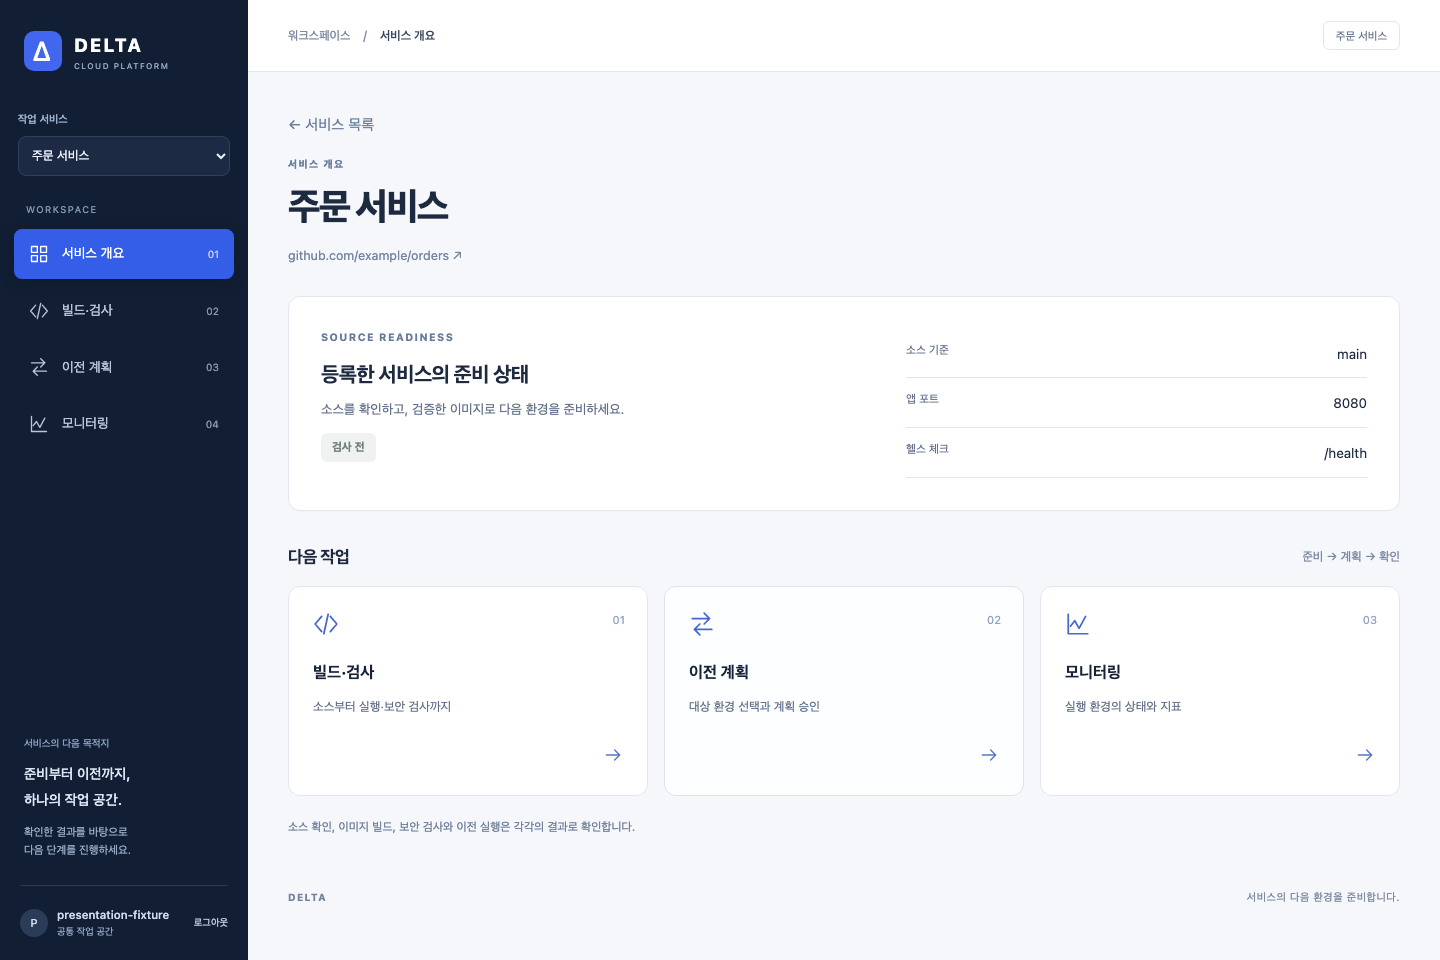
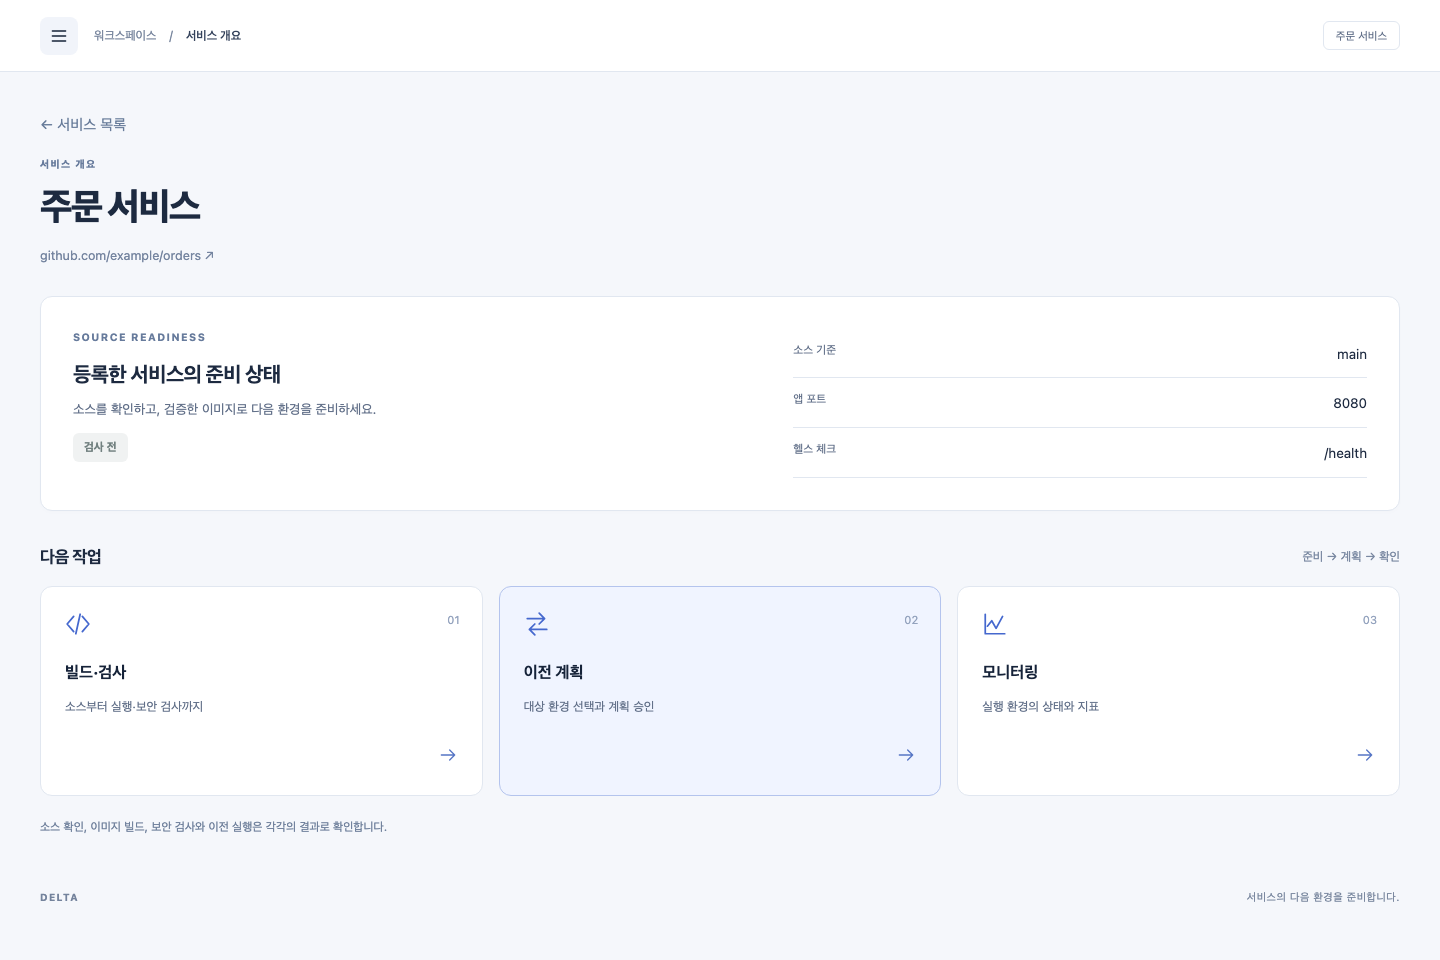
fix(platform): use navigation drawer on desktop and mobile

diff --git a/platform/web/src/presentation.css b/platform/web/src/presentation.css
@@ -70,19 +70,11 @@ h2 {
 .app-shell {
   min-height: 100dvh;
 }
-.desktop-sidebar,
 .drawer-content {
   display: flex;
   flex-direction: column;
   background: #111e33;
   color: #d2dbee;
-}
-.desktop-sidebar {
-  position: fixed;
-  inset: 0 auto 0 0;
-  width: 248px;
-  z-index: 20;
-  overflow-y: auto;
 }
 .shell-brand {
   display: flex;
@@ -242,7 +234,6 @@ h2 {
   flex-shrink: 0;
 }
 .shell-body {
-  margin-left: 248px;
   min-width: 0;
 }
 .shell-topbar {
@@ -289,7 +280,7 @@ h2 {
 .skip-link {
   position: fixed;
   top: -100px;
-  left: 270px;
+  left: 16px;
   padding: 10px 18px;
   background: white;
   border: 2px solid var(--accent);
@@ -299,7 +290,11 @@ h2 {
   top: 12px;
 }
 .drawer-trigger {
-  display: none;
+  display: grid;
+  place-items: center;
+  padding: 9px;
+  border: 0;
+  background: #f1f4fa;
 }
 .shell-footer {
   display: flex;
@@ -661,7 +656,7 @@ h2 {
   background: #e7eeff;
   color: #3d5eda;
 }
-.mobile-drawer {
+.workspace-drawer {
   padding: 0;
   border: 0;
   margin: 0;
@@ -672,7 +667,18 @@ h2 {
   background: #111e33;
   color: white;
 }
-.mobile-drawer::backdrop {
+.workspace-drawer[open] {
+  animation: drawer-enter 180ms ease-out;
+}
+@keyframes drawer-enter {
+  from {
+    transform: translateX(-100%);
+  }
+  to {
+    transform: translateX(0);
+  }
+}
+.workspace-drawer::backdrop {
   background: #0c193d80;
   backdrop-filter: blur(2px);
 }
@@ -708,24 +714,6 @@ h2 {
   }
   .next-action {
     padding: 20px;
-  }
-}
-@media (max-width: 1000px) {
-  .desktop-sidebar {
-    display: none;
-  }
-  .shell-body {
-    margin-left: 0;
-  }
-  .drawer-trigger {
-    display: grid;
-    place-items: center;
-    padding: 9px;
-    border: 0;
-    background: #f1f4fa;
-  }
-  .skip-link {
-    left: 16px;
   }
 }
 @media (max-width: 700px) {
@@ -842,6 +830,7 @@ h2 {
   *::after {
     scroll-behavior: auto !important;
     transition: none !important;
+    animation: none !important;
   }
 }
 

diff --git a/platform/web/src/AppShell.tsx b/platform/web/src/AppShell.tsx
@@ -114,14 +114,6 @@ export function AppShell({
     window.scrollTo({ top: 0 });
   }, [route.view, route.serviceId]);
   useEffect(() => {
-    const wide = window.matchMedia("(min-width: 1001px)");
-    const resized = () => {
-      if (wide.matches) dialog.current?.close();
-    };
-    wide.addEventListener("change", resized);
-    return () => wide.removeEventListener("change", resized);
-  }, []);
-  useEffect(() => {
     if (!open) return;
     const overflow = document.body.style.overflow;
     document.body.style.overflow = "hidden";
@@ -208,10 +200,10 @@ export function AppShell({
       >
         본문으로 이동
       </a>
-      <aside className="desktop-sidebar">{sidebar()}</aside>
       <dialog
+        id="workspace-drawer"
         ref={dialog}
-        className="mobile-drawer"
+        className="workspace-drawer"
         aria-label="작업 공간 메뉴"
         onClose={() => setOpen(false)}
         onKeyDown={(event) => {
@@ -249,6 +241,8 @@ export function AppShell({
           <button
             className="drawer-trigger"
             aria-label="메뉴 열기"
+            aria-controls="workspace-drawer"
+            aria-haspopup="dialog"
             aria-expanded={open}
             onClick={() => {
               dialog.current?.showModal();

diff --git a/platform/web/tests/platform.spec.ts b/platform/web/tests/platform.spec.ts
@@ -92,6 +92,7 @@ async function register(page: Page, name: string, dockerfile = "Dockerfile") {
     .getByRole("button", { name: "등록하고 상세 보기", exact: true })
     .click();
   await expect(page.getByRole("heading", { name, exact: true })).toBeVisible();
+  await page.getByRole("button", { name: "메뉴 열기" }).click();
   await page.getByRole("button", { name: "빌드·검사", exact: true }).click();
 }
 
@@ -124,6 +125,7 @@ test("로그인 → 등록 → 실제 DB·Worker 검사 → 새로고침 → 로
   await expect(
     page.getByText("소스 확인 완료", { exact: true }).first(),
   ).toBeVisible();
+  await page.getByRole("button", { name: "메뉴 열기" }).click();
   await page.getByRole("button", { name: "로그아웃", exact: true }).click();
   await expect(
     page.getByRole("heading", { name: "워크스페이스 로그인" }),

diff --git a/docs/ai-dlc/platform-presentation.md b/docs/ai-dlc/platform-presentation.md
@@ -40,6 +40,8 @@
 
 ![선택한 서비스와 다음 작업](../images/platform-presentation/service-desktop.png)
 
+![데스크톱 서랍](../images/platform-presentation/drawer-desktop.png)
+
 ![모바일 서랍](../images/platform-presentation/drawer-mobile.png)
 
 ## 자체 검토
@@ -48,4 +50,16 @@
 
 ## 운영과 복구
 
-이번 변경은 웹 번들이다. PR 병합과 실제 배포는 아직 하지 않았다. 기존 플랫폼 릴리스 절차로 배포하고 문제가 있으면 이전 웹 번들로 복귀한다. DB 스키마·인프라·로그인 정책 변경은 없다.
+최초 화면 개편 PR #31은 병합됐다. 아래 웹 서랍 후속 변경은 별도 PR로 게시하며 아직 병합·배포하지 않았다. 이번 변경은 웹 번들이다. 기존 플랫폼 릴리스 절차로 배포하고 문제가 있으면 이전 웹 번들로 복귀한다. DB 스키마·인프라·로그인 정책 변경은 없다.
+
+
+## 웹 서랍 후속 수정 (2026-11-04)
+
+- 사용자 `I need drawer for the web platform.` 요청으로 데스크톱 고정 사이드바를 모든 화면 크기에서 메뉴 버튼으로 여는 왼쪽 서랍으로 변경한다. 기존 화면 개편 승인 범위의 수정이다.
+- 설계·구현: 기본은 닫힌 상태이고 본문은 전체 너비를 사용한다. 단일 native dialog로 메뉴를 제공하며, 메뉴 버튼에 펼침 상태와 연결 대상을 표시한다. 열릴 때 짧은 슬라이드 효과를 적용하고 동작 줄이기 설정에서는 애니메이션을 생략한다.
+- 닫기 버튼·Escape·배경 클릭·메뉴 선택을 지원한다. 열린 동안 배경 조작과 스크롤을 막고 키보드 포커스를 유지한다. 화면 크기를 바꿔도 열린 메뉴를 유지한다. 로그인과 API 계약은 유지한다.
+- 테스트: 데스크톱 1440×960·모바일 390×844에서 기본 닫힘, 전체 너비, 열림 상태, 포커스 유지·복귀, 스크롤 잠금·복구, 닫기 방법, 화면 크기 변경, 메뉴 탐색·로그아웃을 검증한다. 기존 탐색 테스트는 메뉴를 먼저 여는 동작으로 갱신했다.
+- `npm run build`: TypeScript/Vite 통과. `npm run format:check`: 통과.
+- `node node_modules/@playwright/test/cli.js test --config=playwright.fixture.config.ts --output=../../.validation/web-drawer-final`: **8 passed**. 최초 실행의 메뉴 활성 상태 확인 테스트는 닫힌 서랍을 조회해 실패했으며, 메뉴를 열고 확인하도록 수정한 뒤 재검증했다.
+- 위 미리보기는 후속 구현의 API fixture 화면이다. 애니메이션을 완료한 상태로 캡처해 데스크톱·모바일을 시각 확인했다. 실제 운영 배포를 검증한 이미지는 아니다.
+- `npm run test:e2e`: 실제 로컬 시험 DB·API·Worker와 브라우저 fixture를 포함해 **21 passed (2.1m)**. 클라우드 배포 검증과 구분한다. 최종 `git diff --check`도 통과했다.

diff --git a/docs/README.md b/docs/README.md
@@ -3,7 +3,7 @@
 ## 현재 상태
 
 - 기준일: 2026-11-04 (Asia/Seoul)
-- 플랫폼 발표 화면(2026-11-04): 왼쪽 사이드바·모바일 서랍과 서비스 개요/빌드·검사/이전 계획/모니터링 화면을 구현했다. 로그인은 유지하고 화면 틀과 분리했다. 로컬 검증과 화면 캡처를 확인했으며 PR 검토 전이다. [설계·검증·미리보기](ai-dlc/platform-presentation.md)
+- 플랫폼 발표 화면(2026-11-04): 서비스 개요/빌드·검사/이전 계획/모니터링 화면 개편 PR #31은 병합됐다. 후속 요청으로 데스크톱·모바일 모두 메뉴 버튼으로 여는 왼쪽 서랍을 구현하고 로컬 검증·화면 캡처를 확인했다. 로그인은 유지하며 후속 변경은 아직 병합·배포하지 않았다. [설계·검증·미리보기](ai-dlc/platform-presentation.md)
 - 플랫폼 중앙 로그(2026-11-04): [PR #34](https://github.com/2026-sbh-delta/delta-network-gateway/pull/34)를 전체 CI 통과 후 main에 병합했다. AWS CloudWatch Logs Destination/Kinesis/Lambda와 GCP Cloud Logging Sink/PubSub/WIF 수집기를 플랫폼 계정(616723161368, 서울)에 별도 배포했고 양쪽 실제 수신·최종 Plan No changes를 확인했다. 기존 네트워크 계정 수집기는 유지한다. AWS 팀원 로그 그룹의 구독 추가와 플랫폼 웹 조회 연결은 별도다. [팀원 연결 안내](../platform/deploy/logging/README.md) · [진행·검증 기록](ai-dlc/platform-central-logging.md)
 - 온프레미스 연결(2026-11-04): [PR #32](https://github.com/2026-sbh-delta/delta-network-gateway/pull/32)를 전체 CI 통과 후 main에 병합했다. k3s 실행기·팀 DAST 등록·OTel 호스트 관측/화면을 추가하고 실제 VM의 동일 이미지·HTTP·권한·통신 차단·정리와 CPU/메모리/디스크 수집을 확인했다. 기존 앱·DB는 보존했고 Collector 서비스는 중지 상태다. 팀에서 VPN/TGW 연결 중이므로 AWS 플랫폼 활성화·중앙 관측 전송·실제 DAST 공격 검사는 후속이다. [진행·검증 기록](ai-dlc/platform-onprem.md)
 - GCP 샌드박스(2026-11-04): [PR #29](https://github.com/2026-sbh-delta/delta-network-gateway/pull/29) 병합·[Release 41814681634](https://github.com/2026-sbh-delta/delta-network-gateway/actions/runs/41814681634) 완료. AWS ECS/GCP Cloud Run 선택과 DAST 연결을 배포했다. 실제 WIF·동일 digest·인증 HTTP·익명403·삭제·공개 웹 결과를 확인했고 기존 로그인·서비스2개를 보존했다. 후보0건은 DAST 미실행으로 표시한다. 온프레미스·최종 운영 VM 검증은 후속이다. [검증·한계](ai-dlc/platform-gcp-sandbox.md)

diff --git a/platform/web/README.md b/platform/web/README.md
@@ -11,7 +11,7 @@ API가 `dist/`를 같은 origin에서 제공한다. 전체 실행은 [플랫폼 
 
 ## 발표 화면과 탐색
 
-- 데스크톱은 왼쪽 사이드바, 1000px 이하는 메뉴 버튼으로 여는 서랍을 사용한다. 모바일 서랍은 Escape/닫기/배경 클릭으로 닫고 키보드 포커스를 유지한다.
+- 데스크톱·모바일 모두 왼쪽 상단 메뉴 버튼으로 서랍을 연다. 기본은 닫힌 상태이며 본문이 전체 너비를 사용한다. Escape/닫기/배경 클릭/메뉴 선택으로 닫고, 열린 동안 키보드 포커스와 배경 스크롤을 제한한다.
 - 서비스 개요 → 빌드·검사 → 이전 계획 → 모니터링 순서로 설명한다. 서비스 개요의 다음 작업 카드로 각 화면에 바로 이동할 수 있다.
 - 빌드·검사는 이미지 빌드 / 실행 확인 / 보안 검사로 나뉜다. 커밋·소스 기록·등록 정보·이력은 필요할 때 펼친다.
 - `#/overview/{service_id}`, `#/build/{service_id}`, `#/migration/{service_id}`, `#/monitoring/{service_id}`로 현재 서비스와 화면을 보존한다. 새로고침과 브라우저 뒤로가기가 동작한다. 선택한 서비스는 모니터링으로도 전달된다.
